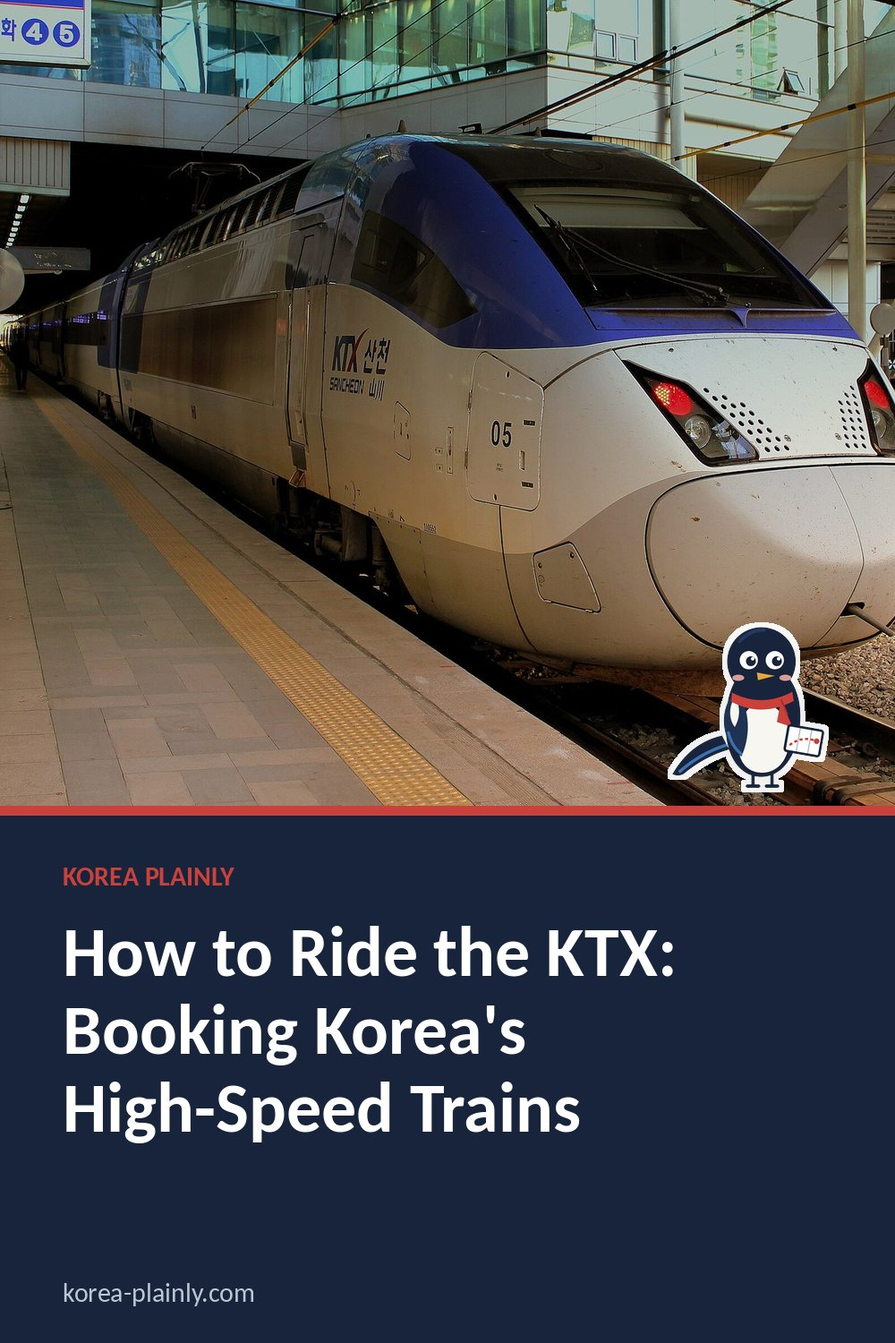
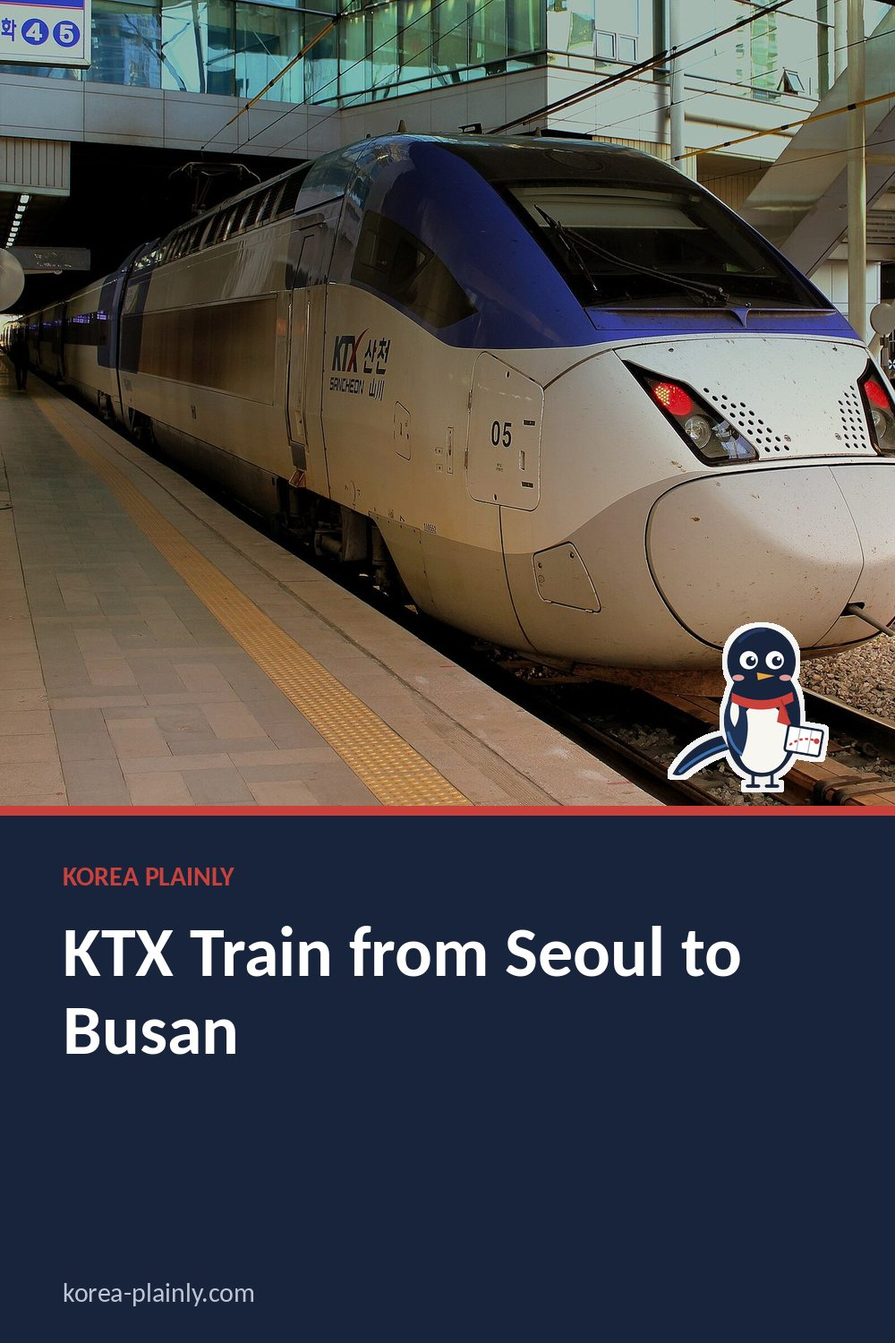
KTX guide: retitle for 'ktx train seoul to busan' and rewrite for the Sept 2026 KTX/SRT merger; retry flights cover photo; Busan topics
- ktx-train-guide.html: concrete Seoul–Busan detail (times, ~₩54,000 fare after the Sept 2026 cut,
  Seoul Station vs Suseo, Korail+ app, rail pass, seats, platforms, arriving in Busan), new FAQ and meta.
- cash-cards-payments-korea.html: drop the separate SRT website mention.
- guide_photos.json: retry the domestic-flights cover with "Gimpo International Airport".
- topics.json: add keyword-gap topics "things to do in busan" and "busan travel pass".

Claude-Session: https://claude.ai/code/session_01NfaVavvWBzVzw3n1WYC62j

Changed region(s): [[0.062, 0.6747, 0.837, 0.8587]]

diff --git a/ktx-train-guide.html b/ktx-train-guide.html
@@ -11,11 +11,11 @@
 >
 
 <link rel="stylesheet" href="style.css?v=20261015-1">
-<title>How to Ride the KTX: Booking Korea&#x27;s High-Speed Trains</title>
+<title>KTX Train from Seoul to Busan: Tickets, Times and How to Ride</title>
 
 <meta
   name="description"
-  content="A practical guide to booking KTX tickets, choosing the right station and seat, and finding your train on travel day."
+  content="How to take the KTX train from Seoul to Busan: stations, journey times, rough fares, booking in the app, Seoul Station vs Suseo and finding your seat."
 >
 <link
   rel="canonical"
@@ -29,12 +29,12 @@
 
 <meta
   property="og:title"
-  content="How to Ride the KTX: Booking Korea&#x27;s High-Speed Trains"
+  content="KTX Train from Seoul to Busan: Tickets, Times and How to Ride"
 >
 
 <meta
   property="og:description"
-  content="A practical guide to booking KTX tickets, choosing the right station and seat, and finding your train on travel day."
+  content="How to take the KTX train from Seoul to Busan: stations, journey times, rough fares, booking in the app, Seoul Station vs Suseo and finding your seat."
 >
 
 <meta
@@ -59,12 +59,12 @@
 
 <meta
   name="twitter:title"
-  content="How to Ride the KTX: Booking Korea&#x27;s High-Speed Trains"
+  content="KTX Train from Seoul to Busan: Tickets, Times and How to Ride"
 >
 
 <meta
   name="twitter:description"
-  content="A practical guide to booking KTX tickets, choosing the right station and seat, and finding your train on travel day."
+  content="How to take the KTX train from Seoul to Busan: stations, journey times, rough fares, booking in the app, Seoul Station vs Suseo and finding your seat."
 >
 
 <meta
@@ -247,9 +247,9 @@ footer {
 <link rel="stylesheet" href="article.css?v=3">
 <link rel="stylesheet" href="https://fonts.googleapis.com/css2?family=DM+Sans:wght@400;500;600;700&family=Playfair+Display:ital,wght@0,600;1,600&display=swap">
 <link rel="icon" href="/favicon.svg" type="image/svg+xml">
-<script type="application/ld+json" id="kp-faq-ld">{"@context": "https://schema.org", "@type": "FAQPage", "mainEntity": [{"@type": "Question", "name": "Should I book my KTX ticket in advance?", "acceptedAnswer": {"@type": "Answer", "text": "Booking ahead is a good idea if you need a particular departure time or are traveling on a busy date. KTX tickets are for specific trains, and popular departures may have limited seats available. If your plans are flexible, check other departure times before choosing."}}, {"@type": "Question", "name": "How do I know where to sit on the train?", "acceptedAnswer": {"@type": "Answer", "text": "Check your ticket for the train number, car number, and seat number. KTX tickets generally have assigned seats, so follow the signs on the platform to find your car and board at the matching location. If anything is unclear, ask station staff for help."}}, {"@type": "Question", "name": "What should I do if I miss my KTX?", "acceptedAnswer": {"@type": "Answer", "text": "Do not assume your ticket can be used on another train. Check the ticket conditions and speak with station staff or the ticket office as soon as possible; they can explain the options for your booking. Keep your ticket details handy when asking for help."}}]}</script>
-<script type="application/ld+json" id="kp-article-ld">{"@context": "https://schema.org", "@type": "Article", "headline": "How to Ride the KTX: Booking Korea's High-Speed Trains", "description": "A practical guide to booking KTX tickets, choosing the right station and seat, and finding your train on travel day.", "image": ["https://korea-plainly.com/photo-ktx-train-guide.jpg"], "datePublished": "2026-10-15", "dateModified": "2026-10-15", "author": {"@type": "Person", "name": "Jungsuk Kim", "url": "https://korea-plainly.com/about.html#author"}, "publisher": {"@type": "Organization", "name": "Korea Plainly", "url": "https://korea-plainly.com/"}, "mainEntityOfPage": "https://korea-plainly.com/ktx-train-guide.html"}</script>
-<script type="application/ld+json" id="kp-breadcrumb-ld">{"@context": "https://schema.org", "@type": "BreadcrumbList", "itemListElement": [{"@type": "ListItem", "position": 1, "name": "Home", "item": "https://korea-plainly.com/"}, {"@type": "ListItem", "position": 2, "name": "Guides", "item": "https://korea-plainly.com/guides.html"}, {"@type": "ListItem", "position": 3, "name": "Transport", "item": "https://korea-plainly.com/guides.html?category=transport"}, {"@type": "ListItem", "position": 4, "name": "How to Ride the KTX: Booking Korea's High-Speed Trains", "item": "https://korea-plainly.com/ktx-train-guide.html"}]}</script>
+<script type="application/ld+json" id="kp-faq-ld">{"@context": "https://schema.org", "@type": "FAQPage", "mainEntity": [{"@type": "Question", "name": "How long is the KTX train from Seoul to Busan?", "acceptedAnswer": {"@type": "Answer", "text": "About 2 hours 15 minutes on the fastest trains and up to around 2 hours 50 minutes on trains with more stops. The booking screen shows the exact time for each departure."}}, {"@type": "Question", "name": "How much is a KTX ticket from Seoul to Busan?", "acceptedAnswer": {"@type": "Answer", "text": "Roughly ₩54,000 one way in standard class from Seoul Station after the September 2026 fare cut, and more in first class. Fares can change, and the Korea Rail Pass may work out cheaper if you take several long trips in a few days."}}, {"@type": "Question", "name": "Can I buy KTX tickets at the station on the day?", "acceptedAnswer": {"@type": "Answer", "text": "Yes, from machines with an English option or at the ticket office. On weekdays there are often seats, but weekends and holidays can sell out, so book in Korail’s app if your time is fixed."}}]}</script>
+<script type="application/ld+json" id="kp-article-ld">{"@context": "https://schema.org", "@type": "Article", "headline": "KTX Train from Seoul to Busan: Tickets, Times and How to Ride", "description": "How to take the KTX train from Seoul to Busan: stations, journey times, rough fares, booking in the app, Seoul Station vs Suseo and finding your seat.", "image": ["https://korea-plainly.com/photo-ktx-train-guide.jpg"], "datePublished": "2026-10-15", "dateModified": "2026-10-22", "author": {"@type": "Person", "name": "Jungsuk Kim", "url": "https://korea-plainly.com/about.html#author"}, "publisher": {"@type": "Organization", "name": "Korea Plainly", "url": "https://korea-plainly.com/"}, "mainEntityOfPage": "https://korea-plainly.com/ktx-train-guide.html"}</script>
+<script type="application/ld+json" id="kp-breadcrumb-ld">{"@context": "https://schema.org", "@type": "BreadcrumbList", "itemListElement": [{"@type": "ListItem", "position": 1, "name": "Home", "item": "https://korea-plainly.com/"}, {"@type": "ListItem", "position": 2, "name": "Guides", "item": "https://korea-plainly.com/guides.html"}, {"@type": "ListItem", "position": 3, "name": "Transport", "item": "https://korea-plainly.com/guides.html?category=transport"}, {"@type": "ListItem", "position": 4, "name": "KTX Train from Seoul to Busan: Tickets, Times and How to Ride", "item": "https://korea-plainly.com/ktx-train-guide.html"}]}</script>
 <meta property="article:published_time" content="2026-10-15">
 </head>
 
@@ -280,12 +280,12 @@ TRANSPORT · KOREA GUIDE
 </div>
 
 <h1>
-How to Ride the KTX: Booking Korea&#x27;s High-Speed Trains
+KTX Train from Seoul to Busan: Tickets, Times and How to Ride
 </h1>
-<p class="kp-date" data-kp="date">By <a href="about.html#author">Jungsuk Kim</a>, Korea Plainly · Published <time datetime="2026-10-15">15 October 2026</time></p>
+<p class="kp-date" data-kp="date">By <a href="about.html#author">Jungsuk Kim</a>, Korea Plainly · Published <time datetime="2026-10-15">15 October 2026</time> · Updated <time datetime="2026-10-22">22 October 2026</time></p>
 
 <p class="dek">
-A practical guide to booking KTX tickets, choosing the right station and seat, and finding your train on travel day.
+How to take the KTX train from Seoul to Busan: stations, journey times, rough fares, booking in the app, Seoul Station vs Suseo and finding your seat.
 </p>
 
 <img
@@ -297,31 +297,58 @@ A practical guide to booking KTX tickets, choosing the right station and seat, a
 
 <article>
 
-<p>The KTX is Korea’s high-speed rail service, connecting major cities such as Seoul, Daejeon, Daegu, Busan and Gwangju. It is a convenient option for longer journeys, but a smooth trip depends on booking the right train and going to the right station. Use this guide to plan your journey, keep your ticket ready and find your seat.</p><nav class="kp-toc" data-kp="toc" aria-label="On this page"><p>On this page</p><ol><li><a href="#choose-your-route-and-station">Choose your route and station</a></li><li><a href="#where-to-book">Where to book</a></li><li><a href="#keep-your-ticket-easy-to-find">Keep your ticket easy to find</a></li><li><a href="#at-the-station">At the station</a></li><li><a href="#during-the-journey">During the journey</a></li><li><a href="#quick-checklist">Quick checklist</a></li><li><a href="#frequently-asked-questions">Frequently Asked Questions</a></li></ol></nav>
-<h2 id="choose-your-route-and-station">Choose your route and station</h2><p>Start by checking the full station names for both ends of your trip. Seoul has more than one station served by KTX trains. Many trains to Busan leave from Seoul Station, while some routes or services use other stations, such as Yongsan. Your ticket will show the departure station, so do not assume that every train leaves from Seoul Station.</p><p>Check the arrival station too. Some destinations have more than one rail station, and the best one depends on where you are going next. For example, a station outside a city centre may be less convenient for your hotel than a central station. Look up the station on a map and consider how you will continue by subway, bus, taxi or local train.</p><p>Make sure you are booking a KTX service, not a different high-speed train. SRT is a separate service with its own tickets and stations. Search for the exact route and departure time you need rather than relying on a general search for “high-speed train.”</p><h2 id="where-to-book">Where to book</h2><p>For KTX, use Korail’s official website or the KorailTalk app. Check that you are using the official service, and select an English-language option if available. You can also ask at a station ticket counter or use a ticket machine. Machines may have an English-language setting, but buying online in advance can make the process easier, particularly when you have a fixed schedule.</p><p>Enter your departure station, destination, date and number of passengers. Review the results carefully: trains may leave at similar times, and the journey length can differ. Select a train that fits your plans, then follow the payment and ticket instructions on the booking service. Booking availability and the date on which tickets go on sale can vary, so check the official schedule for your travel date. Popular travel periods can be busy; book as early as the booking system allows if you need a particular departure.</p><p>Before paying, check the date, time, stations, passenger count and fare details. If you are travelling with children or need a particular type of seat, read the options shown during booking. Seat choices can depend on availability. If the train you want is full, look at nearby departure times or check again later for changes.</p><h2 id="keep-your-ticket-easy-to-find">Keep your ticket easy to find</h2><p>After booking, save the ticket or reservation details somewhere you can access without searching through email at the station. Follow the instructions in the app or confirmation message about what to show when travelling. Ticket formats can differ, so do not assume that every booking uses the same kind of QR code or paper ticket. If you are unsure, ask Korail staff before boarding.</p><p>If you buy at a station, keep the printed ticket with you. Check that the printed departure time and stations match your plans before leaving the counter or machine. If you need to change or cancel a booking, use the service where you purchased it and check its current rules and any applicable fees. Conditions can depend on the ticket and how close you are to departure.</p><h2 id="at-the-station">At the station</h2><p>Arrive with time to find the correct station entrance, check the departure boards and locate your platform. As a practical buffer, aim to be at the station around 20 to 30 minutes before departure, especially if you have luggage or have not visited before. Large stations can be busy, and the station name on a map may refer to a large complex rather than a particular platform.</p><p>Look for your train on the electronic departure boards. Match the destination and departure time to your ticket, then check the platform information. Platform numbers can change, so check the boards again rather than relying only on a screenshot taken earlier. Follow signs to the platform and check the train’s destination display before you board.</p><p>At the platform, find the car number and seat number printed on your ticket. Board the matching car and place your bags where they will not block the aisle or doors. Larger bags may need to go in a luggage area or another suitable space; keep valuables and essential items with you. If your seat is occupied, first check that you are in the right car and seat, then politely show the other passenger your ticket or ask staff for help.</p><h2 id="during-the-journey">During the journey</h2><p>Keep your ticket or booking information available in case it is checked. Listen for announcements and watch the station displays as your stop approaches. If you are unsure which stop is yours, use the route shown in your booking or ask a staff member. Do not get off just because the train pauses at a station; check the station name against your destination.</p><p>For a more relaxed trip, use the restroom before boarding if you prefer, keep water and any needed medication in your bag, and have your onward directions ready. Mobile signal or access to your booking may not be convenient at every moment, so saving key details in advance is useful.</p><h2 id="quick-checklist">Quick checklist</h2><ul><li>Confirm the exact departure and arrival stations.</li><li>Book through Korail’s official website, app or a station ticket service.</li><li>Check the date, time, passenger details and seat information before paying.</li><li>Save your ticket instructions and arrive early enough to find the platform.</li><li>Match the train, car and seat to your ticket before boarding.</li></ul>
+<p>The KTX train from Seoul to Busan is the easiest way to cross Korea: city centre to city centre in roughly two and a half hours, with no airport security and no check-in. The same steps work on every other KTX route, such as Daejeon, Daegu, Gyeongju and Gangneung.</p>
+<nav class="kp-toc" data-kp="toc" aria-label="On this page"><p>On this page</p><ol><li><a href="#seoul-to-busan-at-a-glance">KTX Seoul to Busan at a glance</a></li><li><a href="#seoul-station-or-suseo">Seoul Station or Suseo: one KTX, two Seoul starts</a></li><li><a href="#how-to-book-ktx-train-tickets">How to book KTX train tickets</a></li><li><a href="#is-the-korea-rail-pass-worth-it">Is the Korea Rail Pass worth it?</a></li><li><a href="#choosing-a-seat">Choosing a seat</a></li><li><a href="#travel-day">Travel day: from the station to your seat</a></li><li><a href="#arriving-in-busan">Arriving in Busan</a></li><li><a href="#changes-and-refunds">Changes and refunds</a></li><li><a href="#frequently-asked-questions">FAQ</a></li></ol></nav>
+<h2 id="seoul-to-busan-at-a-glance">KTX Seoul to Busan at a glance</h2>
+<ul>
+<li><strong>Journey time:</strong> about 2 hours 15 minutes on the fastest trains, closer to 2 hours 45 minutes or more on trains with extra stops. The timetable shows the length of each departure, so compare a few.</li>
+<li><strong>Stations:</strong> trains leave from Seoul Station (서울역) or Suseo Station (수서역) and arrive at Busan Station (부산역). Some Seoul Station trains also stop at Gwangmyeong, south-west of the city.</li>
+<li><strong>Frequency:</strong> trains run from early morning until late evening, often several an hour at busy times.</li>
+<li><strong>Rough fare:</strong> about ₩54,000 one way for a standard seat from Seoul Station since fares were cut in September 2026, and more for first class. Treat this as a guide and check the price shown when you book.</li>
+</ul>
+<p>Flights from Gimpo to Gimhae are shorter in the air, but once you add getting to the airports and waiting, the train usually wins for central Busan. Our <a href="korea-domestic-flights-budget-airlines.html">guide to domestic flights and budget airlines</a> compares the two, and <a href="seoul-vs-busan.html">Seoul or Busan?</a> helps if you are still deciding how to split your days.</p>
+<h2 id="seoul-station-or-suseo">Seoul Station or Suseo: one KTX, two Seoul starts</h2>
+<p>Until August 2026 Korea had two high-speed brands on this line: the KTX from Seoul Station and the SRT from Suseo Station, in south-east Seoul near Gangnam, each with its own app. On 1 September 2026 the two operators merged, so the former SRT trains now run as KTX and you can search trains from both stations in one place. Older blog posts and videos that tell you to download a separate SRT app are out of date.</p>
+<p>The choice now is simply where you start. Seoul Station suits hotels in the old city, Myeongdong, Hongdae and anywhere on the airport railway. Suseo, on Line 3 and the Suin–Bundang Line, can save a long subway ride if you are staying in Gangnam or Jamsil. When you search, enter “Seoul” or “Suseo” as the departure station and compare both.</p>
+<h2 id="how-to-book-ktx-train-tickets">How to book KTX train tickets</h2>
+<p>You have three options, and the first is the easiest for most visitors:</p>
+<ol>
+<li><strong>Korail’s app or English website.</strong> The app was renewed as Korail+ (코레일+) with the 2026 merger; download it from your phone’s official app store, choose English, enter Seoul (or Suseo) and Busan, pick a date and a train, then pay by card. Foreign cards usually work, though some are declined; trying another card or booking at the station are the fall-backs. Your ticket appears in the app.</li>
+<li><strong>Ticket machines at the station.</strong> They have an English option and take cards.</li>
+<li><strong>The ticket office.</strong> Show the staff your destination and time written down, for example “부산 10:00”.</li>
+</ol>
+<p>Tickets usually go on sale about a month ahead. Weekday trains often have seats on the day, but Friday evenings, Sunday afternoons and holiday periods such as Seollal and Chuseok sell out early. On those dates, book as soon as you can and keep the booking screen open: seats freed by refunds often reappear.</p>
+<p>If no seat is left, some trains sell standing or unreserved tickets for the cars marked 자유석 (free seating) or for the spaces between cars.</p>
+<h2 id="is-the-korea-rail-pass-worth-it">Is the Korea Rail Pass worth it?</h2>
+<p>The Korea Rail Pass (often called the KR Pass) is sold only to foreign visitors and gives unlimited Korail travel for a set number of days. Since the merger, check on Korail’s site whether your pass covers trains from Suseo before relying on it. It pays off if you take several long trips in a short time, such as Seoul to Busan, then Gyeongju, then back to Seoul, all within a few days, as in our <a href="korea-7-day-itinerary.html">7-day Korea itinerary</a>. For a single return trip to Busan, ordinary tickets are usually cheaper. Add up your planned fares first, and remember that you still need to reserve a seat with the pass.</p>
+<h2 id="choosing-a-seat">Choosing a seat</h2>
+<ul>
+<li><strong>Standard (일반실):</strong> four seats across, two either side of the aisle. Perfectly comfortable for two and a half hours.</li>
+<li><strong>First class (특실):</strong> three seats across with more legroom. Worth it on a long day or if you want a quieter car.</li>
+<li><strong>Direction:</strong> on some older trains half the seats face backwards, and the booking screen may label them as reverse direction (역방향). Pick a forward seat (순방향) if that bothers you.</li>
+</ul>
+<h2 id="travel-day">Travel day: from the station to your seat</h2>
+<p>Seoul Station is a large complex shared by the subway (Lines 1 and 4), the airport railway and Korail. Follow the signs for Korail or the KTX up to the main hall, where big departure boards list each train by number, destination and time. Aim to arrive 20 to 30 minutes early the first time.</p>
+<p>There are no ticket gates. When your platform number appears on the board, usually about 10 to 15 minutes before departure, walk down. Car numbers are marked on the platform floor or signs, so stand by your car and board there rather than walking the length of a full train. Conductors check tickets on a handheld device, so you only need the ticket on your phone, or the printed one, if asked.</p>
+<p>Large suitcases go on the racks at the end of each car; smaller bags fit overhead. There is no restaurant car, so pick up lunch, coffee or a gimbap roll at the station shops before boarding.</p>
+<h2 id="arriving-in-busan">Arriving in Busan</h2>
+<p>Busan Station is on Busan Subway Line 1. Nampo and Jagalchi Market are a few stops south; for Seomyeon, ride Line 1 north and change there to Line 2 for Haeundae and Gwangalli, roughly 40 to 50 minutes in total. A taxi to Haeundae avoids the change if you have heavy bags. A T-money card works on Busan’s subway and buses (see our <a href="korea-transit-card-guide.html">T-money card guide</a>). For a ready-made plan once you arrive, try <a href="busan-1-day-itinerary.html">One Day in Busan</a>.</p>
+<h2 id="changes-and-refunds">Changes and refunds</h2>
+<p>You can usually cancel or change a ticket in the app where you bought it. Refunds made well before departure have little or no fee, and the fee rises as departure gets closer and again after the train has left. If you miss your train, go to the ticket office straight away rather than boarding the next one: your seat is for one train only, and the app shows the current refund conditions.</p>
 
 <div class="tip">
-
-<strong>
-Bottom line:
-</strong>
-
-A little preparation can make your
-time in Korea much easier.
-Keep this guide handy and enjoy
-exploring at your own pace.
-
+<strong>Bottom line:</strong> book the KTX in Korail’s app a few days ahead (weeks ahead for holidays and Friday evenings), and compare trains from Seoul Station and Suseo, whichever is closer to your hotel.
 </div>
 
 
 <section class="faq">
-<h2 id="frequently-asked-questions">Frequently Asked Questions</h2>
-<h3>Should I book my KTX ticket in advance?</h3>
-<p>Booking ahead is a good idea if you need a particular departure time or are traveling on a busy date. KTX tickets are for specific trains, and popular departures may have limited seats available. If your plans are flexible, check other departure times before choosing.</p>
-<h3>How do I know where to sit on the train?</h3>
-<p>Check your ticket for the train number, car number, and seat number. KTX tickets generally have assigned seats, so follow the signs on the platform to find your car and board at the matching location. If anything is unclear, ask station staff for help.</p>
-<h3>What should I do if I miss my KTX?</h3>
-<p>Do not assume your ticket can be used on another train. Check the ticket conditions and speak with station staff or the ticket office as soon as possible; they can explain the options for your booking. Keep your ticket details handy when asking for help.</p>
+<h2 id="frequently-asked-questions">FAQ</h2>
+<h3>How long is the KTX train from Seoul to Busan?</h3>
+<p>About 2 hours 15 minutes on the fastest trains and up to around 2 hours 50 minutes on trains with more stops. The booking screen shows the exact time for each departure.</p>
+<h3>How much is a KTX ticket from Seoul to Busan?</h3>
+<p>Roughly ₩54,000 one way in standard class from Seoul Station after the September 2026 fare cut, and more in first class. Fares can change, and the Korea Rail Pass may work out cheaper if you take several long trips in a few days.</p>
+<h3>Can I buy KTX tickets at the station on the day?</h3>
+<p>Yes, from machines with an English option or at the ticket office. On weekdays there are often seats, but weekends and holidays can sell out, so book in Korail’s app if your time is fixed.</p>
 </section>
 
 <!-- kp-kkachi -->

diff --git a/cash-cards-payments-korea.html b/cash-cards-payments-korea.html
@@ -23,7 +23,7 @@
 <link rel="stylesheet" href="article.css?v=3">
 <link rel="stylesheet" href="https://fonts.googleapis.com/css2?family=DM+Sans:wght@400;500;600;700&family=Playfair+Display:ital,wght@0,600;1,600&display=swap">
 <script type="application/ld+json" id="kp-faq-ld">{"@context": "https://schema.org", "@type": "FAQPage", "mainEntity": [{"@type": "Question", "name": "Do I need cash in Korea at all?", "acceptedAnswer": {"@type": "Answer", "text": "Very little. Cards cover most spending in cities, but keep some won in notes for transit card top-ups, market stalls, small rural businesses and the occasional machine that will not read your card."}}, {"@type": "Question", "name": "Is it better to exchange money before I travel?", "acceptedAnswer": {"@type": "Answer", "text": "Usually not. Rates for won abroad are often poor. Change a small amount at the airport if you want cash on arrival, then use a global ATM or a licensed money changer in the city (see where to exchange money)."}}, {"@type": "Question", "name": "Can I use Apple Pay in Korea with a foreign card?", "acceptedAnswer": {"@type": "Answer", "text": "Sometimes. It works where the terminal accepts contactless foreign cards, which is far from everywhere. Treat it as a convenience, not your main way to pay."}}]}</script>
-<script type="application/ld+json" id="kp-article-ld">{"@context": "https://schema.org", "@type": "Article", "headline": "Do You Need Cash in Korea? Cards, ATMs and Payments", "description": "Do you need cash in Korea? Where foreign cards work, when you still need won, where to get it and how to avoid fees, updated for 2026.", "image": ["https://korea-plainly.com/photo-cash-cards-payments-korea.jpg"], "datePublished": "2026-10-07", "dateModified": "2026-10-17", "author": {"@type": "Person", "name": "Jungsuk Kim", "url": "https://korea-plainly.com/about.html#author"}, "publisher": {"@type": "Organization", "name": "Korea Plainly", "url": "https://korea-plainly.com/"}, "mainEntityOfPage": "https://korea-plainly.com/cash-cards-payments-korea.html"}</script>
+<script type="application/ld+json" id="kp-article-ld">{"@context": "https://schema.org", "@type": "Article", "headline": "Do You Need Cash in Korea? Cards, ATMs and Payments", "description": "Do you need cash in Korea? Where foreign cards work, when you still need won, where to get it and how to avoid fees, updated for 2026.", "image": ["https://korea-plainly.com/photo-cash-cards-payments-korea.jpg"], "datePublished": "2026-10-07", "dateModified": "2026-10-22", "author": {"@type": "Person", "name": "Jungsuk Kim", "url": "https://korea-plainly.com/about.html#author"}, "publisher": {"@type": "Organization", "name": "Korea Plainly", "url": "https://korea-plainly.com/"}, "mainEntityOfPage": "https://korea-plainly.com/cash-cards-payments-korea.html"}</script>
 <script type="application/ld+json" id="kp-breadcrumb-ld">{"@context": "https://schema.org", "@type": "BreadcrumbList", "itemListElement": [{"@type": "ListItem", "position": 1, "name": "Home", "item": "https://korea-plainly.com/"}, {"@type": "ListItem", "position": 2, "name": "Guides", "item": "https://korea-plainly.com/guides.html"}, {"@type": "ListItem", "position": 3, "name": "Money", "item": "https://korea-plainly.com/guides.html?category=money"}, {"@type": "ListItem", "position": 4, "name": "Do You Need Cash in Korea? Cards, ATMs and Payments", "item": "https://korea-plainly.com/cash-cards-payments-korea.html"}]}</script>
 <meta property="article:published_time" content="2026-10-07">
 </head><body class="kp-article">
@@ -40,7 +40,7 @@
 <button class="menu" aria-label="menu">☰</button></div></header>
 <main class="article-page"><section class="wrap article-hero"><nav class="kp-crumbs" data-kp="crumbs" aria-label="Breadcrumb"><a href="index.html">Home</a> <span>›</span> <a href="guides.html">Guides</a> <span>›</span> <a href="guides.html?category=money">Money</a></nav>
 <p class="kicker"><i></i> MONEY · BEGINNER</p><h1>Do You Need Cash in Korea? Cards, ATMs and Payments</h1>
-<p class="kp-date" data-kp="date">By <a href="about.html#author">Jungsuk Kim</a>, Korea Plainly · Published <time datetime="2026-10-07">7 October 2026</time> · Updated <time datetime="2026-10-17">17 October 2026</time></p><p class="article-lead">Where foreign cards work in Korea, the few places that still want cash, how to get won cheaply and what to do if your card is declined.</p><p class="article-meta">Korea Plainly · 6 min read</p></section>
+<p class="kp-date" data-kp="date">By <a href="about.html#author">Jungsuk Kim</a>, Korea Plainly · Published <time datetime="2026-10-07">7 October 2026</time> · Updated <time datetime="2026-10-22">22 October 2026</time></p><p class="article-lead">Where foreign cards work in Korea, the few places that still want cash, how to get won cheaply and what to do if your card is declined.</p><p class="article-meta">Korea Plainly · 6 min read</p></section>
 <div class="wrap"><img class="cover" src="photo-cash-cards-payments-korea.jpg" alt="Do You Need Cash in Korea? Cards, ATMs and Payments" srcset="img/photo-cash-cards-payments-korea.a135953e.w480.webp 480w, img/photo-cash-cards-payments-korea.a135953e.w800.webp 800w, img/photo-cash-cards-payments-korea.a135953e.w1200.webp 1200w, photo-cash-cards-payments-korea.jpg 1600w" sizes="(max-width: 860px) 100vw, 820px" fetchpriority="high">
 <p class="photo-credit" data-kp="photo-credit" style="font-size:12px;color:#777;margin:-18px 0 24px"><a href="https://commons.wikimedia.org/wiki/File:Seoul_namdaemun_market_2005-08-07.jpg" target="_blank" rel="noopener nofollow" style="color:inherit">Photo: No machine-readable author provided. IGEL assumed (based on copyright claims)., CC BY-SA 3.0, via Wikimedia Commons</a></p>
 </div>
@@ -53,7 +53,7 @@
 <li>Most cafes and sit-down restaurants, including many small independent ones</li>
 <li>Taxis, whether you hail one on the street or book through an app such as Kakao T</li>
 <li>Hotels, museums, palaces, theme parks and major attractions</li>
-<li>Train tickets on the Korail and SRT websites and at station counters</li>
+<li>Train tickets on Korail’s website and app and at station counters</li>
 </ul>
 <p>Visa and Mastercard are the safest choices. American Express, JCB and UnionPay are accepted in many places, but less consistently. Many shops now use self-order kiosks; most take foreign cards, though some only accept Korean ones, so be ready to order at the counter instead.</p>
 <h2 id="when-cash-still-helps">When cash still helps</h2>

diff --git a/korea-domestic-flights-budget-airlines.html b/korea-domestic-flights-budget-airlines.html
@@ -245,12 +245,12 @@ footer {
 <script async src="https://pagead2.googlesyndication.com/pagead/js/adsbygoogle.js?client=ca-pub-7379462117232471" crossorigin="anonymous"></script>
 <style>.kp-date{font-size:13px;color:#62635f;margin:-6px 0 22px}</style>
 <script type="application/ld+json" id="kp-faq-ld">{"@context": "https://schema.org", "@type": "FAQPage", "mainEntity": [{"@type": "Question", "name": "Which Seoul airport should I use for a domestic flight to Jeju or Busan?", "acceptedAnswer": {"@type": "Answer", "text": "Check the airport shown on your ticket before you travel. Gimpo is commonly used for domestic flights from Seoul, while Incheon mainly serves international routes. Allow time to get to the correct airport, especially if you are connecting from an international flight or changing airports."}}, {"@type": "Question", "name": "Does a budget airline ticket include checked baggage?", "acceptedAnswer": {"@type": "Answer", "text": "Not always. Baggage allowances and fees can vary by airline and fare type, so check the rules for your specific booking before packing. Also look at the limits for carry-on bags and whether options such as seat selection are included or cost extra."}}, {"@type": "Question", "name": "Is flying from Seoul to Busan better than taking the train?", "acceptedAnswer": {"@type": "Answer", "text": "It depends on your itinerary. A flight may suit you if the airport is convenient and the schedule works, but include travel to and from both airports in your comparison. A train can be a practical alternative, particularly if you want to travel between city-center stations."}}]}</script>
-<script type="application/ld+json" id="kp-article-ld">{"@context": "https://schema.org", "@type": "Article", "headline": "Korean Budget Airlines and Domestic Flights: Seoul to Jeju and Busan", "description": "How to book Korean domestic flights, choose between budget airlines and trains, and get between Gimpo, Jeju and Gimhae airports and the city.", "image": ["https://korea-plainly.com/street.jpg"], "datePublished": "2026-10-22", "dateModified": "2026-10-22", "author": {"@type": "Person", "name": "Jungsuk Kim", "url": "https://korea-plainly.com/about.html#author"}, "publisher": {"@type": "Organization", "name": "Korea Plainly", "url": "https://korea-plainly.com/"}, "mainEntityOfPage": "https://korea-plainly.com/korea-domestic-flights-budget-airlines.html"}</script>
-<script type="application/ld+json" id="kp-breadcrumb-ld">{"@context": "https://schema.org", "@type": "BreadcrumbList", "itemListElement": [{"@type": "ListItem", "position": 1, "name": "Home", "item": "https://korea-plainly.com/"}, {"@type": "ListItem", "position": 2, "name": "Guides", "item": "https://korea-plainly.com/guides.html"}, {"@type": "ListItem", "position": 3, "name": "Transport", "item": "https://korea-plainly.com/guides.html?category=transport"}, {"@type": "ListItem", "position": 4, "name": "Korean Budget Airlines and Domestic Flights: Seoul to Jeju and Busan", "item": "https://korea-plainly.com/korea-domestic-flights-budget-airlines.html"}]}</script>
-<meta property="article:published_time" content="2026-10-22">
 <link rel="stylesheet" href="article.css?v=3">
 <link rel="stylesheet" href="https://fonts.googleapis.com/css2?family=DM+Sans:wght@400;500;600;700&family=Playfair+Display:ital,wght@0,600;1,600&display=swap">
 <link rel="icon" href="/favicon.svg" type="image/svg+xml">
+<script type="application/ld+json" id="kp-article-ld">{"@context": "https://schema.org", "@type": "Article", "headline": "Korean Budget Airlines and Domestic Flights: Seoul to Jeju and Busan", "description": "How to book Korean domestic flights, choose between budget airlines and trains, and get between Gimpo, Jeju and Gimhae airports and the city.", "image": ["https://korea-plainly.com/street.jpg"], "datePublished": "2026-10-22", "dateModified": "2026-10-22", "author": {"@type": "Person", "name": "Jungsuk Kim", "url": "https://korea-plainly.com/about.html#author"}, "publisher": {"@type": "Organization", "name": "Korea Plainly", "url": "https://korea-plainly.com/"}, "mainEntityOfPage": "https://korea-plainly.com/korea-domestic-flights-budget-airlines.html"}</script>
+<script type="application/ld+json" id="kp-breadcrumb-ld">{"@context": "https://schema.org", "@type": "BreadcrumbList", "itemListElement": [{"@type": "ListItem", "position": 1, "name": "Home", "item": "https://korea-plainly.com/"}, {"@type": "ListItem", "position": 2, "name": "Guides", "item": "https://korea-plainly.com/guides.html"}, {"@type": "ListItem", "position": 3, "name": "Transport", "item": "https://korea-plainly.com/guides.html?category=transport"}, {"@type": "ListItem", "position": 4, "name": "Korean Budget Airlines and Domestic Flights: Seoul to Jeju and Busan", "item": "https://korea-plainly.com/korea-domestic-flights-budget-airlines.html"}]}</script>
+<meta property="article:published_time" content="2026-10-22">
 </head>
 
 <body class="kp-article">

diff --git a/korea-festivals.html b/korea-festivals.html
@@ -248,7 +248,7 @@ footer {
 <link rel="stylesheet" href="https://fonts.googleapis.com/css2?family=DM+Sans:wght@400;500;600;700&family=Playfair+Display:ital,wght@0,600;1,600&display=swap">
 <link rel="icon" href="/favicon.svg" type="image/svg+xml">
 <script type="application/ld+json" id="kp-faq-ld">{"@context": "https://schema.org", "@type": "FAQPage", "mainEntity": [{"@type": "Question", "name": "Where does this festival list come from?", "acceptedAnswer": {"@type": "Answer", "text": "From the Korea Tourism Organization's official tourism data, which we check every week. Always confirm dates on the festival's own page before you travel."}}, {"@type": "Question", "name": "When is the best time for festivals in Korea?", "acceptedAnswer": {"@type": "Answer", "text": "Autumn has the most festivals, followed by spring. Winter is the season for lights, ice fishing and snow festivals."}}, {"@type": "Question", "name": "Are Korean festivals free?", "acceptedAnswer": {"@type": "Answer", "text": "Many are free to enter, especially street, lantern and food festivals. Some activities, such as ice fishing or paid seats at fireworks shows, cost extra."}}]}</script>
-<script type="application/ld+json" id="kp-article-ld">{"@context": "https://schema.org", "@type": "Article", "headline": "Festivals in Korea: What's On This Month and Coming Up", "description": "A festival calendar for Korea, updated every week: what is on now and coming up across the country, from food and lantern festivals to fireworks, flowers and ice fishing.", "image": ["https://korea-plainly.com/photo-korea-festivals.jpg"], "datePublished": "2026-10-15", "dateModified": "2026-10-21", "author": {"@type": "Person", "name": "Jungsuk Kim", "url": "https://korea-plainly.com/about.html#author"}, "publisher": {"@type": "Organization", "name": "Korea Plainly", "url": "https://korea-plainly.com/"}, "mainEntityOfPage": "https://korea-plainly.com/korea-festivals.html"}</script>
+<script type="application/ld+json" id="kp-article-ld">{"@context": "https://schema.org", "@type": "Article", "headline": "Festivals in Korea: What's On This Month and Coming Up", "description": "A festival calendar for Korea, updated every week: what is on now and coming up across the country, from food and lantern festivals to fireworks, flowers and ice fishing.", "image": ["https://korea-plainly.com/photo-korea-festivals.jpg"], "datePublished": "2026-10-15", "dateModified": "2026-10-22", "author": {"@type": "Person", "name": "Jungsuk Kim", "url": "https://korea-plainly.com/about.html#author"}, "publisher": {"@type": "Organization", "name": "Korea Plainly", "url": "https://korea-plainly.com/"}, "mainEntityOfPage": "https://korea-plainly.com/korea-festivals.html"}</script>
 <script type="application/ld+json" id="kp-breadcrumb-ld">{"@context": "https://schema.org", "@type": "BreadcrumbList", "itemListElement": [{"@type": "ListItem", "position": 1, "name": "Home", "item": "https://korea-plainly.com/"}, {"@type": "ListItem", "position": 2, "name": "Guides", "item": "https://korea-plainly.com/guides.html"}, {"@type": "ListItem", "position": 3, "name": "Travel Basics", "item": "https://korea-plainly.com/guides.html?category=travel"}, {"@type": "ListItem", "position": 4, "name": "Festivals in Korea: What's On This Month and Coming Up", "item": "https://korea-plainly.com/korea-festivals.html"}]}</script>
 <meta property="article:published_time" content="2026-10-15">
 </head>
@@ -282,7 +282,7 @@ TRAVEL BASICS · WHAT'S ON
 <h1>
 Festivals in Korea: What's On This Month and Coming Up
 </h1>
-<p class="kp-date" data-kp="date">By <a href="about.html#author">Jungsuk Kim</a>, Korea Plainly · Published <time datetime="2026-10-15">15 October 2026</time> · Updated <time datetime="2026-10-21">21 October 2026</time></p>
+<p class="kp-date" data-kp="date">By <a href="about.html#author">Jungsuk Kim</a>, Korea Plainly · Published <time datetime="2026-10-15">15 October 2026</time> · Updated <time datetime="2026-10-22">22 October 2026</time></p>
 
 <p class="dek">
 A festival calendar for Korea, updated every week: what is on now and coming up across the country, from food and lantern festivals to fireworks, flowers and ice fishing.

diff --git a/guides.html b/guides.html
@@ -1151,11 +1151,11 @@ TRANSPORT · NEW
 </small>
 
 <h2>
-How to Ride the KTX: Booking Korea&#x27;s High-Speed Trains
+KTX Train from Seoul to Busan: Tickets, Times and How to Ride
 </h2>
 
 <p>
-A practical guide to booking KTX tickets, choosing the right station and seat, and finding your train on travel day.
+How to take the KTX train from Seoul to Busan: stations, journey times, rough fares, booking in the app, Seoul Station vs Suseo and finding your seat.
 </p>
 
 <span class="guide-arrow">
